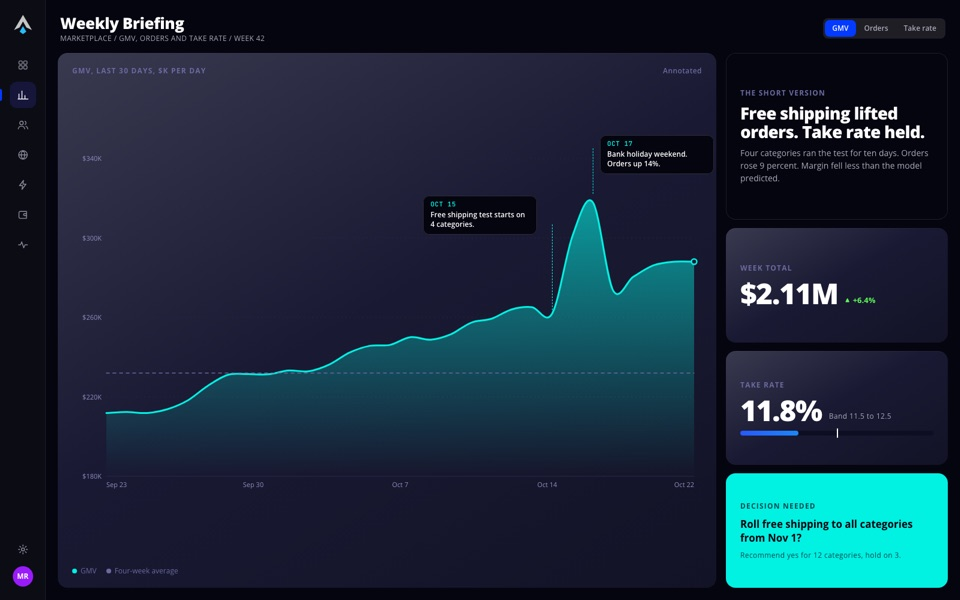
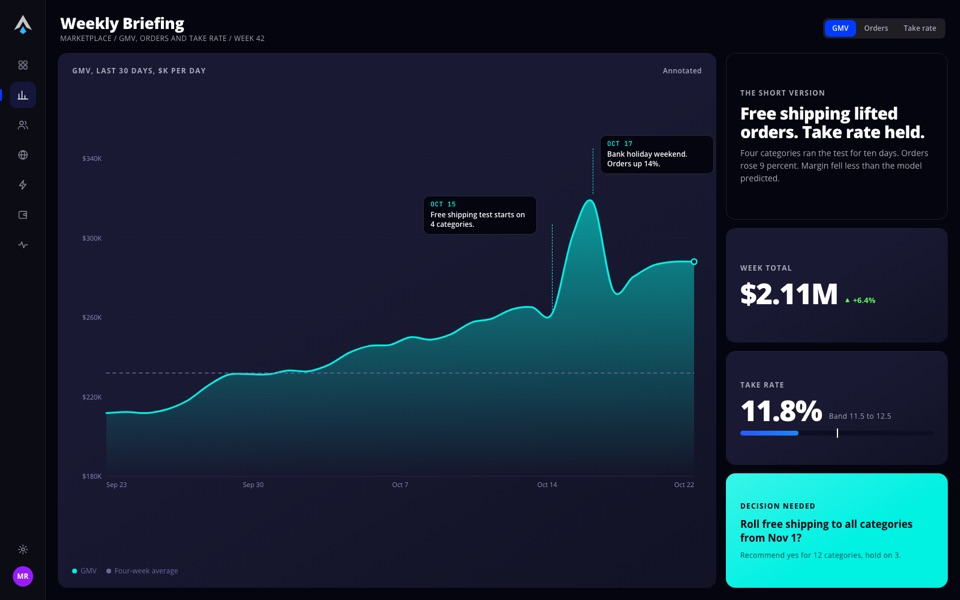
Tiles: corner titles and captions hold 4.5:1 on every tile
Corner titles use text-secondary on navy tiles (widget-muted was 3.4:1) and
full ink on color blocks. Captions on blue and purple blocks go to 92% ink.
The tile sheen now darkens only under light text and lightens only under
dark ink, so it can never lower contrast. Light mode green and amber blocks
take dark ink. Previews and visual baselines recaptured.

diff --git a/css/dashboards.css b/css/dashboards.css
@@ -55,7 +55,7 @@ body { font-family: var(--ns-font-sans); color: var(--ns-text-primary); -webkit-
 .t--blue   { background: var(--ns-interactive-primary); color: var(--ns-text-on-color); box-shadow: none; --ink: var(--ns-text-on-color); --ink2: color-mix(in srgb, var(--ink) 70%, transparent); --faint: color-mix(in srgb, var(--ink) 20%, transparent); }
 .t--bruise { background: var(--ns-chart-series-3); color: var(--ns-text-on-color); box-shadow: none; --ink: var(--ns-text-on-color); --ink2: color-mix(in srgb, var(--ink) 70%, transparent); --faint: color-mix(in srgb, var(--ink) 20%, transparent); }
 .t--teal   { background: var(--ns-chart-series-1); color: var(--ns-text-inverse); box-shadow: none; --ink: var(--ns-text-inverse); --ink2: color-mix(in srgb, var(--ink) 70%, transparent); --faint: color-mix(in srgb, var(--ink) 20%, transparent); }
-:root[data-theme="light"] .t--teal { color: var(--ns-text-primary); --ink: var(--ns-text-primary); } /* series-1 teal is light in light mode: dark ink holds AA */
+:root[data-theme="light"] .t--teal, :root[data-theme="light"] .t--green, :root[data-theme="light"] .t--amber { color: var(--ns-text-primary); --ink: var(--ns-text-primary); --ink2: color-mix(in srgb, var(--ink) 86%, transparent); } /* series-1 teal is light in light mode: dark ink holds AA */
 .t--green  { background: var(--ns-viz-5); color: var(--ns-text-inverse); box-shadow: none; --ink: var(--ns-text-inverse); --ink2: color-mix(in srgb, var(--ink) 70%, transparent); --faint: color-mix(in srgb, var(--ink) 20%, transparent); }
 .t--amber  { background: var(--ns-viz-3); color: var(--ns-text-inverse); box-shadow: none; --ink: var(--ns-text-inverse); --ink2: color-mix(in srgb, var(--ink) 70%, transparent); --faint: color-mix(in srgb, var(--ink) 20%, transparent); }
 .t--paper  { background: var(--ns-background-inverse); color: var(--ns-text-inverse); box-shadow: none; --ink: var(--ns-text-inverse); --ink2: color-mix(in srgb, var(--ink) 70%, transparent); --faint: color-mix(in srgb, var(--ink) 20%, transparent); }
@@ -66,9 +66,11 @@ body { font-family: var(--ns-font-sans); color: var(--ns-text-primary); -webkit-
 .t--flush { padding: 0; }
 .t--tight { padding: var(--ns-space-5) 18px; }
 
-.t[class*="t--blue"], .t[class*="t--bruise"], .t[class*="t--teal"], .t[class*="t--green"], .t[class*="t--amber"], .t--paper { --lbl: var(--ink2); --ramp-from: color-mix(in srgb, var(--ink) var(--ns-chart-ramp-fade), transparent); } /* on a block the ramp is the ink, faded to full */
+.t[class*="t--blue"], .t[class*="t--bruise"], .t[class*="t--teal"], .t[class*="t--green"], .t[class*="t--amber"], .t--paper { --lbl: var(--ink); --ramp-from: color-mix(in srgb, var(--ink) var(--ns-chart-ramp-fade), transparent); } /* on a block the ramp is the ink, faded to full */
 .t--ink, .t--line { background-image: none; }
-.o { /* corner title */ font: 700 var(--ns-type-chart-title-size)/16px var(--ns-font-sans); letter-spacing: 1.2px; text-transform: uppercase; color: var(--lbl, var(--ns-widget-muted)); display: flex; align-items: center; gap: var(--ns-space-3); }
+.t--teal, .t--green, .t--amber, .t--paper { background-image: var(--ns-chart-sheen-light); } /* dark ink: the sheen may only lighten */
+.t--blue, .t--bruise { --ink2: color-mix(in srgb, var(--ink) 92%, transparent); } /* white on blue or purple needs nearly full ink to hold 4.5:1 */
+.o { /* corner title */ font: 700 var(--ns-type-chart-title-size)/16px var(--ns-font-sans); letter-spacing: 1.2px; text-transform: uppercase; color: var(--lbl, var(--ns-text-secondary)); display: flex; align-items: center; gap: var(--ns-space-3); } /* widget-muted was 3.4:1 on the tile */
 .o em { font-style: normal; margin-left: auto; letter-spacing: .4px; text-transform: none; font-weight: 600; font-size: var(--ns-type-caption-size); }
 .cap { font: 400 12px/16px var(--ns-font-sans); letter-spacing: .4px; color: var(--ink2, var(--ns-text-secondary)); }
 .ttl { margin: 0; font: 700 16px/22px var(--ns-font-sans); }

diff --git a/css/site.css b/css/site.css
@@ -624,13 +624,13 @@ body:not(.is-home) .shell::before { content: ""; position: absolute; top: 0; bot
 .bt--teal, .bt--blue, .bt--purple {
   background-color: var(--_block); border-color: transparent; color: var(--ink);
   --ramp-from: color-mix(in srgb, var(--ink) var(--ns-chart-ramp-fade), transparent);
-  --ns-text-primary: var(--ink); --ns-text-secondary: color-mix(in srgb, var(--ink) 78%, transparent); --ns-text-tertiary: color-mix(in srgb, var(--ink) 78%, transparent);
-  --ns-chart-label-text: color-mix(in srgb, var(--ink) 78%, transparent); --ns-chart-trend-text: var(--ink); --ns-chart-target: var(--ink);
+  --ns-text-primary: var(--ink); --ns-text-secondary: color-mix(in srgb, var(--ink) 92%, transparent); --ns-text-tertiary: color-mix(in srgb, var(--ink) 92%, transparent);
+  --ns-chart-label-text: color-mix(in srgb, var(--ink) 92%, transparent); --ns-chart-trend-text: var(--ink); --ns-chart-target: var(--ink);
   --ns-chart-series-1: var(--ink); --ns-chart-series-2: color-mix(in srgb, var(--ink) 55%, transparent); --ns-chart-series-3: color-mix(in srgb, var(--ink) 36%, transparent); --ns-chart-series-4: color-mix(in srgb, var(--ink) 74%, transparent); --ns-chart-series-5: color-mix(in srgb, var(--ink) 28%, transparent);
   --ns-chart-track: color-mix(in srgb, var(--ink) 16%, transparent); --ns-widget-grid: color-mix(in srgb, var(--ink) 18%, transparent); --ns-widget-track: color-mix(in srgb, var(--ink) 16%, transparent);
   --ns-border-default: color-mix(in srgb, var(--ink) 18%, transparent); --ns-interactive-primary: var(--ink);
 }
-.bt--teal { --_block: var(--ns-viz-1); /* not chart-series-1: the block remaps that to ink */ --ink: var(--ns-text-inverse); }
+.bt--teal { background-image: var(--ns-chart-sheen-light); --_block: var(--ns-viz-1); /* not chart-series-1: the block remaps that to ink */ --ink: var(--ns-text-inverse); }
 :root[data-theme="light"] .bt--teal { --ink: var(--ns-black); }
 .bt--blue { --_block: var(--ns-blue-500); --ink: var(--ns-text-on-color); }
 .bt--purple { --_block: var(--ns-purple-500); --ink: var(--ns-text-on-color); }

diff --git a/css/tokens.css b/css/tokens.css
@@ -207,7 +207,8 @@
   --ns-chart-cap: round;
   --ns-chart-ramp-from: var(--ns-chart-series-2); /* low end of the one chart ramp; the high end is the series color */
   --ns-chart-ramp-fade: 42%;   /* ramp start for ink on a color block and for series other than series-1 */
-  --ns-chart-sheen: linear-gradient(150deg, color-mix(in srgb, #ffffff 14%, transparent) 0%, transparent 48%, color-mix(in srgb, #000000 24%, transparent) 100%); /* soft diagonal over a tile's own color */
+  --ns-chart-sheen: linear-gradient(150deg, transparent 0%, transparent 42%, color-mix(in srgb, #000000 26%, transparent) 100%); /* soft diagonal over a tile's own color. Darkens only, so light text never loses contrast */
+  --ns-chart-sheen-light: linear-gradient(150deg, color-mix(in srgb, #ffffff 22%, transparent) 0%, transparent 58%); /* the same diagonal for blocks with dark ink (teal, green, amber, paper). Lightens only */
   --ns-type-chart-title-size: 12px; /* tile corner titles (overline was 10px) */
 
   --ns-gradient-brand: linear-gradient(135deg, var(--ns-blue-500), var(--ns-teal-500));

diff --git a/agent/northstar.md b/agent/northstar.md
@@ -2,7 +2,7 @@
 
 > Machine-readable guide for AI coding and design agents. Generated 2026-11-09 from the live catalog by tools/agent-export.mjs; do not edit by hand. Site: https://mikelrosenthal.com/northstar/ · Figma file VZxmDNQiosTN6gqnvEQ65Z.
 
-NorthStar is a design language and development kit for dense, dark, data-heavy enterprise consoles: 57 components, 223 tokens, dark and light themes, comfortable and compact density. Markup is framework-free HTML with ns- classes; style comes only from CSS custom properties.
+NorthStar is a design language and development kit for dense, dark, data-heavy enterprise consoles: 57 components, 224 tokens, dark and light themes, comfortable and compact density. Markup is framework-free HTML with ns- classes; style comes only from CSS custom properties.
 
 ## Files
 
@@ -138,7 +138,8 @@ Use these roles in components. Values are the dark theme; light overrides are in
 | `--ns-chart-series-3` | #991bfa | same |
 | `--ns-chart-series-4` | #7844f9 | #4807ea |
 | `--ns-chart-series-5` | #6a6a9f | #5a5a8f |
-| `--ns-chart-sheen` | linear-gradient(150deg, color-mix(in srgb, #ffffff 14%, transparent) 0%, transparent 48%, color-mix(in srgb, #000000 24%, transparent) 100%) | same |
+| `--ns-chart-sheen` | linear-gradient(150deg, transparent 0%, transparent 42%, color-mix(in srgb, #000000 26%, transparent) 100%) | same |
+| `--ns-chart-sheen-light` | linear-gradient(150deg, color-mix(in srgb, #ffffff 22%, transparent) 0%, transparent 58%) | same |
 | `--ns-chart-stroke` | 2.5px | same |
 | `--ns-chart-stroke-thin` | 1.5px | same |
 | `--ns-chart-target` | #ffffff | #05050f |
